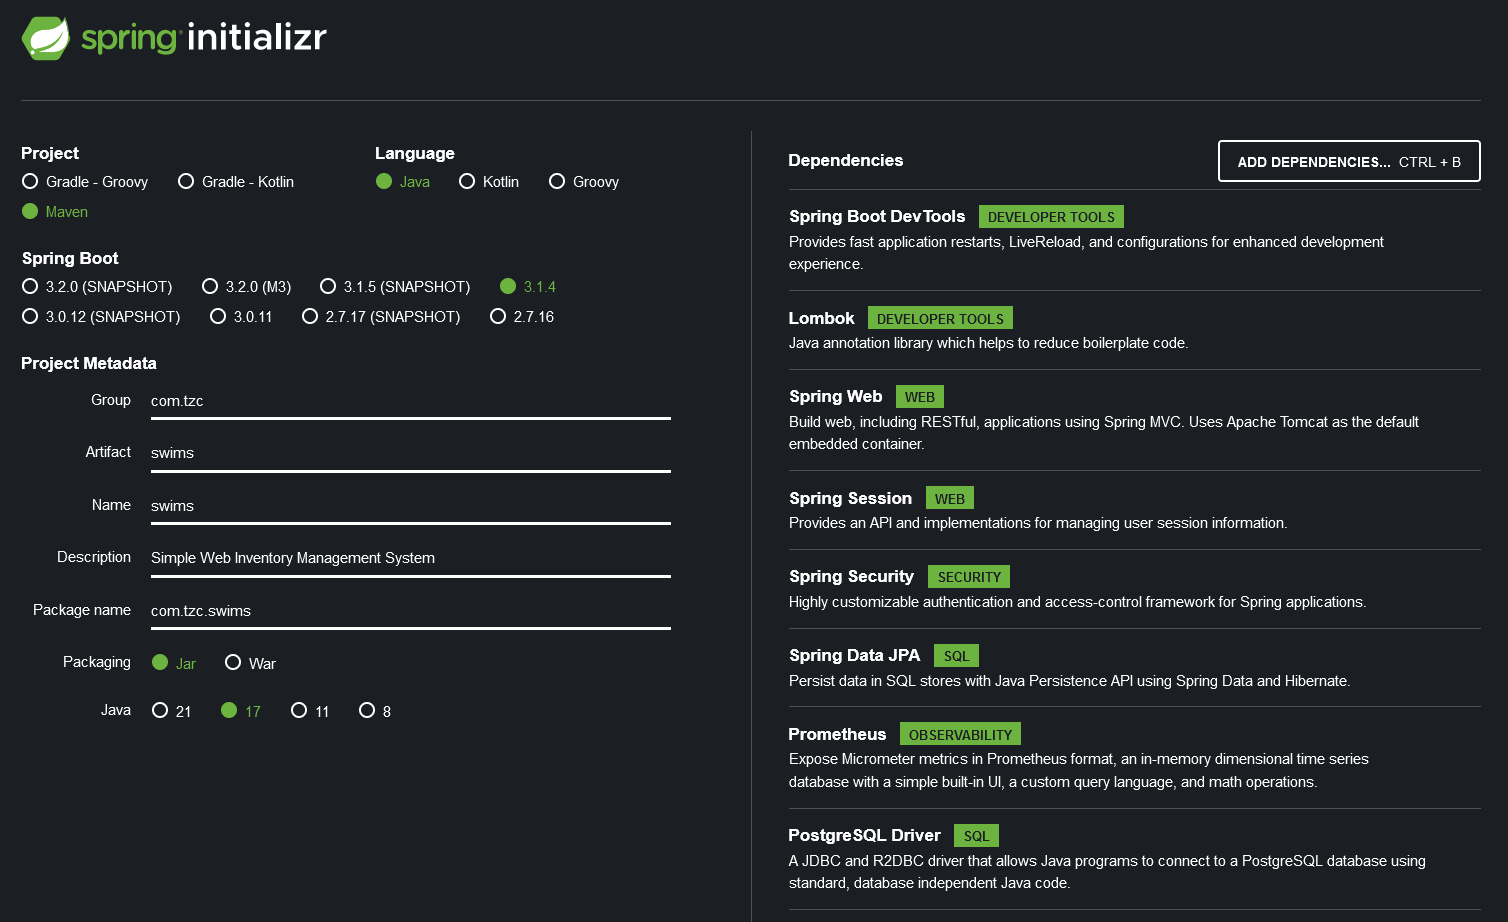
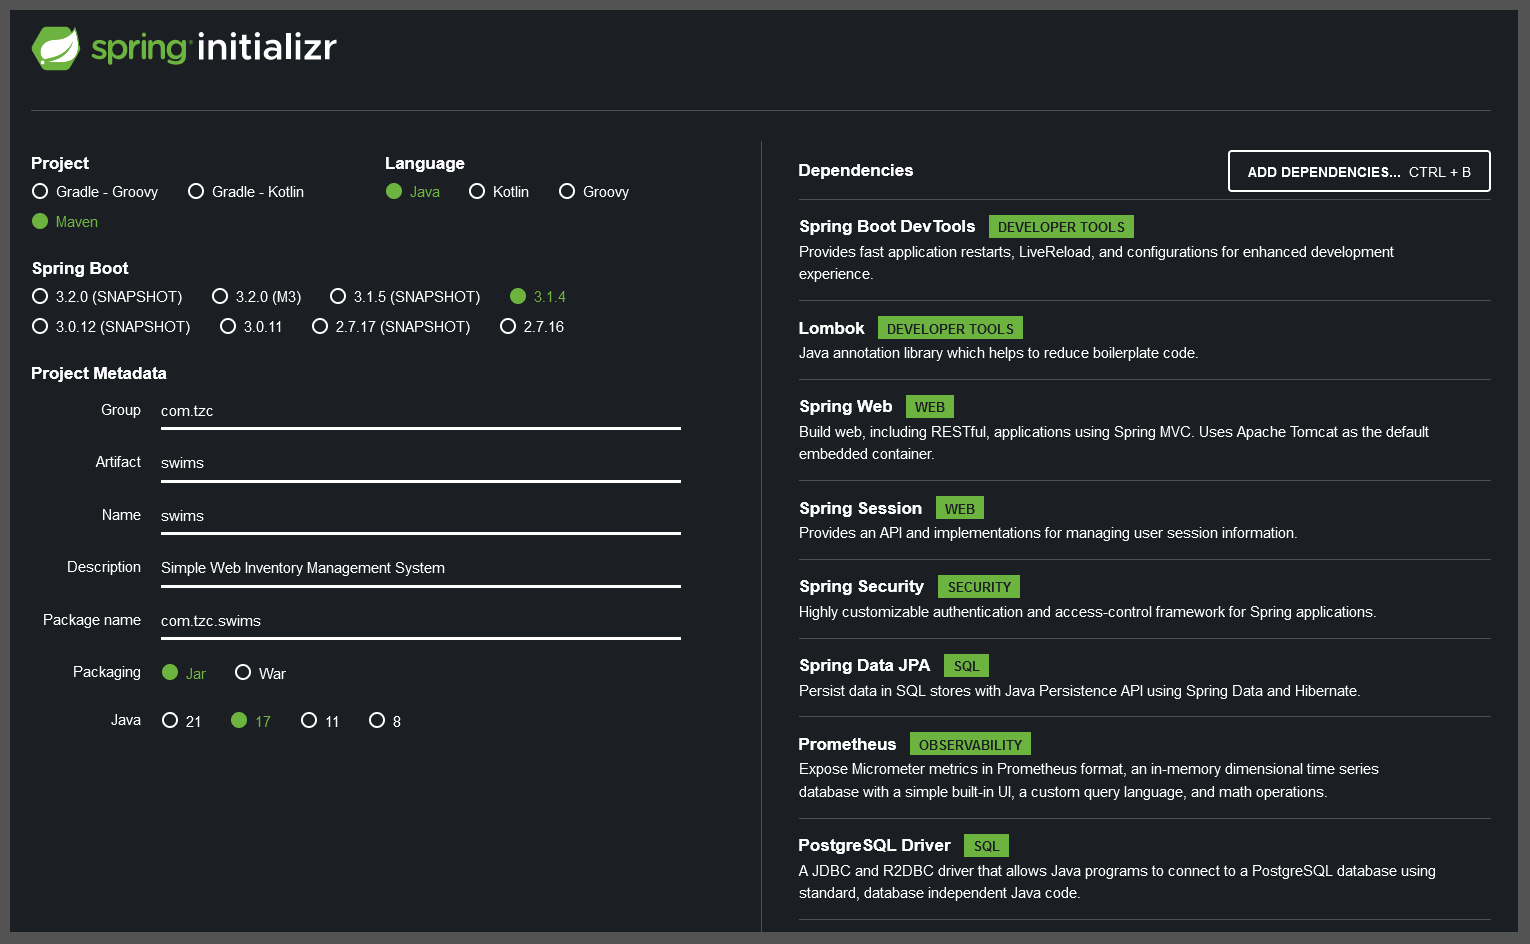
Add and configure bootstrap framework

diff --git a/README.md b/README.md
@@ -18,18 +18,45 @@ Repository URL: [GitHub/Tomasz-Zdeb/Advanced-Web-Applications-Engineering-Class-
 
 Default routes are:
 
-- [/v3/api-docs](http://localhost:8080/v3/api-docs)
-- [/swagger-ui/index.html#/](http://localhost:8080/swagger-ui/index.html#/)
+- [/api/v3/api-docs](http://localhost:8080/v3/api-docs)
+- [/api/swagger-ui/index.html#/](http://localhost:8080/swagger-ui/index.html#/)
 
 
 
 ## Frontend
+
+#### Development Server
+
+```bash
+npm run start
+```
+Remember to first install all the dependencies:
+
+```bash
+npm install
+```
 
 #### Initialization
 
 ```powershell
 ng new swims --routing --skip-git --skip-tests --style css
 ```
+
+#### Adding Bootstrap
+
+- Install bootstrap in the project by issuing command: `npm install bootstrap`
+- add **bootstrap css reference** to `angular.json` config file
+<div style="text-align: center;">
+    <img src="./Resources/bootstrap_styles.png" style="width: 600px; height: auto;">
+</div>
+
+- add **bootstrap js reference** to `angular.json` config file
+
+<div style="text-align: center;">
+    <img src="./Resources/bootstrap_scripts.png" style="width: 600px; height: auto;">
+</div>
+
+#### Frontend References
 
 * [Angular Docs: ng new](https://angular.io/cli/new)
 
@@ -39,9 +66,18 @@ ng new swims --routing --skip-git --skip-tests --style css
 
 #### Initialization
 
-![Screenshot from Spring Initializr showing my settings used to initialize my Spring Boot application](./Resources/spring_project_initialization.png)
+<div style="text-align: center;">
+    <img src="./Resources/spring_project_initialization.png" style="width: 600px; height: auto;">
+</div>
+
 
 ### Database - PostgreSQL
+
+#### Docker Image Build
+
+```bash
+docker build -t swims-db-posgres .
+```
 
 ## References
 
